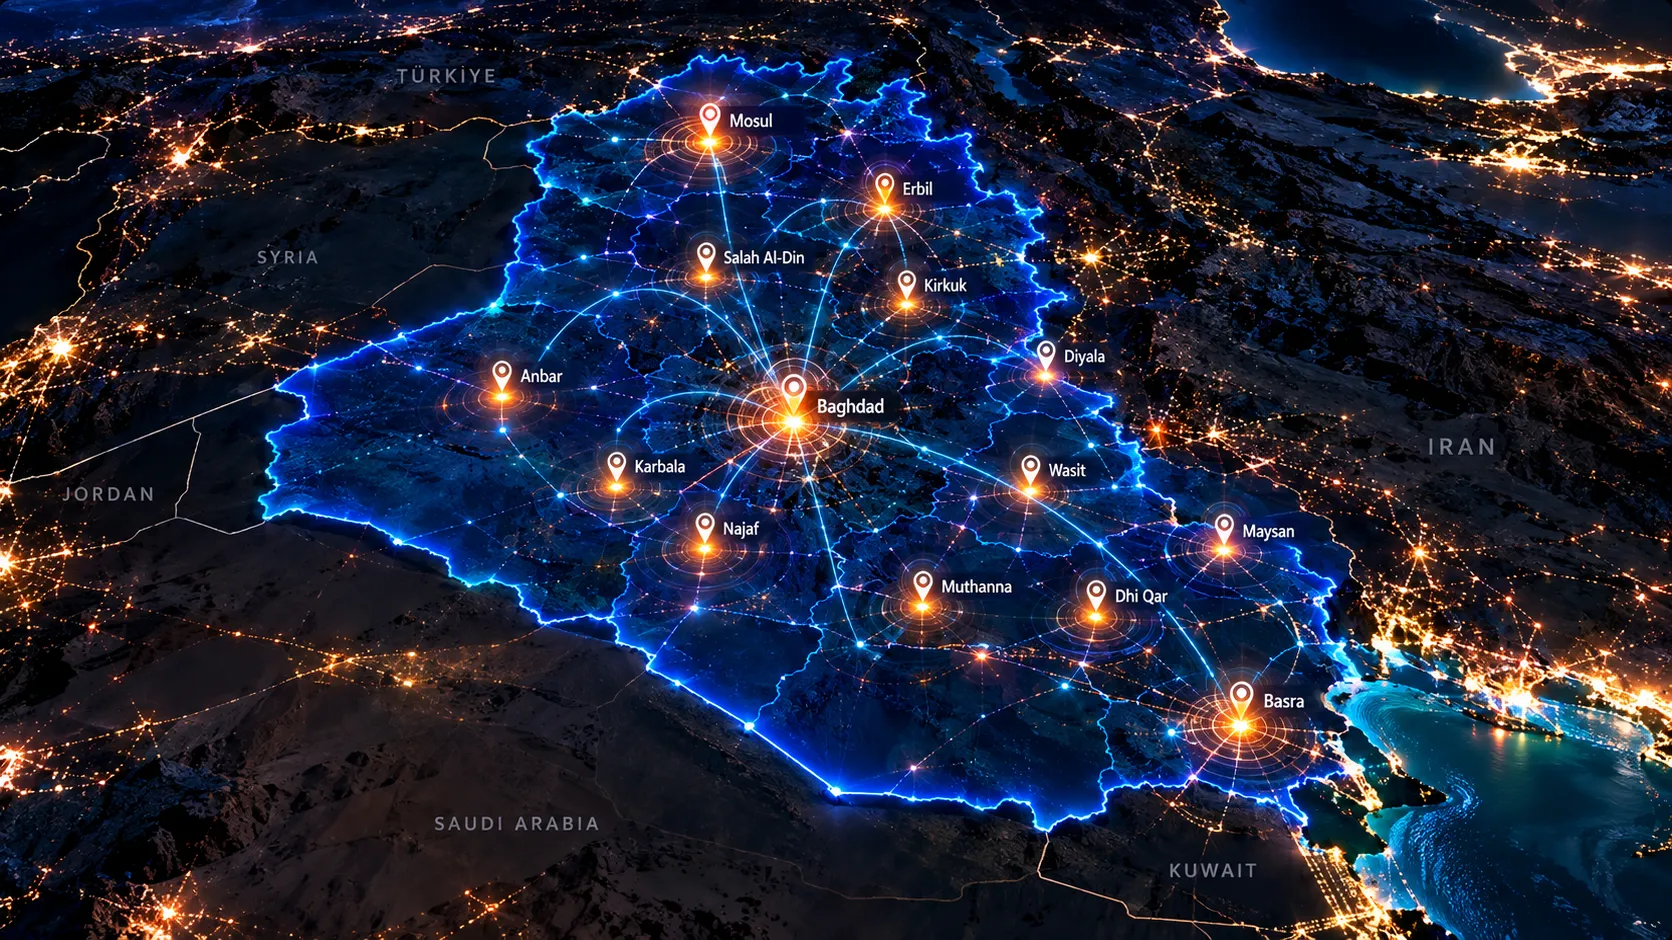
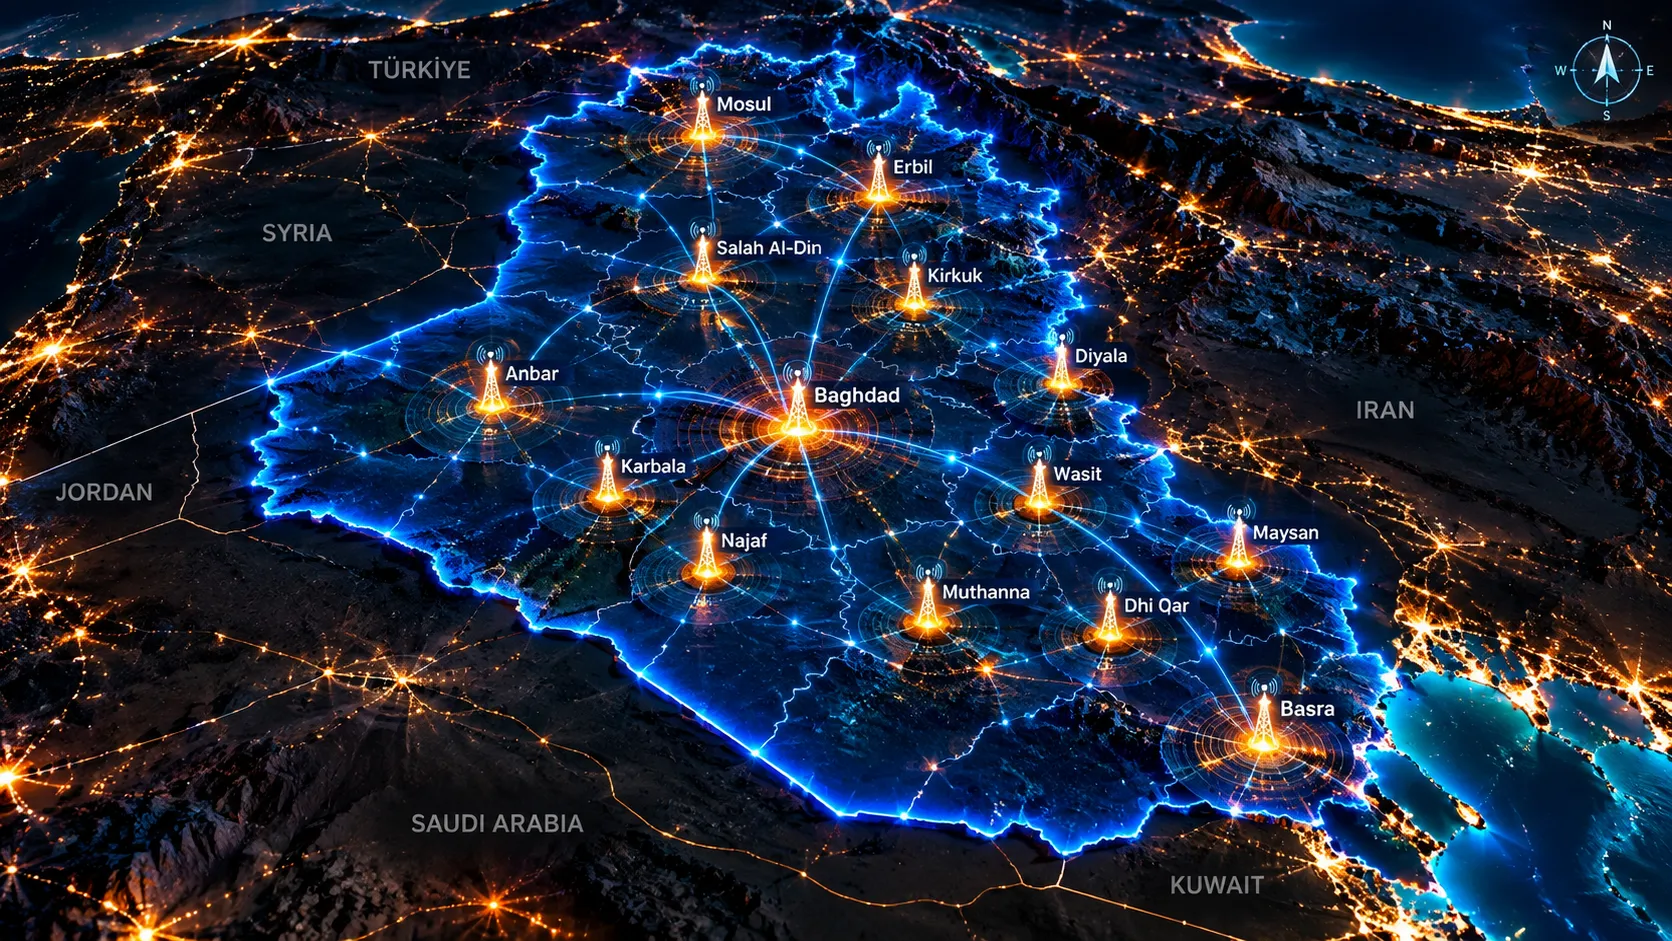
Sleep Analysis denser panels, new Iraq map background, refined Huawei flower, MS Asiacell Project label
Claude-Session: https://claude.ai/code/session_01HyJWzbNktJ7oNiTAd1pBso

diff --git a/app/_ui.py b/app/_ui.py
@@ -78,12 +78,14 @@ ICONS = {
                '<path d="M12 7.5V12l3 2"/></svg>',
 }
 
-# the Huawei flower: eight petals fanned from one point, the inner ones longest
-_PETAL = "M0 0C-5.4-7-6.6-15.5-3.4-22.5C-1.6-26.2 1.6-26.2 3.4-22.5C6.6-15.5 5.4-7 0 0Z"
+# the Huawei flower: eight separate petals fanned from one point, pointed at
+# the centre, the inner ones longest
+_PETAL = ("M0-1.6C-1.9-6-2.9-12.4-2.4-17.6C-2-21.9 2-21.9 2.4-17.6"
+          "C2.9-12.4 1.9-6 0-1.6Z")
 _FLOWER = "".join(
     f'<path d="{_PETAL}" transform="rotate({a}) scale({s})"/>'
-    for a, s in ((-80, .62), (-54, .8), (-29, .94), (-7, 1.0),
-                 (7, 1.0), (29, .94), (54, .8), (80, .62)))
+    for a, s in ((-79, .66), (-55, .82), (-32, .94), (-10, 1.0),
+                 (10, 1.0), (32, .94), (55, .82), (79, .66)))
 
 # the sidebar brand (st.logo takes an SVG string): HUAWEI, and its author
 LOGO_SVG = (
@@ -91,10 +93,10 @@ LOGO_SVG = (
     'viewBox="0 0 236 52"><defs><linearGradient id="hw" x1="0" y1="0" x2="0" y2="1">'
     '<stop offset="0" stop-color="#FF2A3A"/><stop offset="1" stop-color="#C7000B"/>'
     '</linearGradient></defs>'
-    f'<g fill="url(#hw)" transform="translate(24 36)">{_FLOWER}</g>'
-    '<text x="56" y="27" font-family="Segoe UI, Arial, sans-serif" font-size="23" '
+    f'<g fill="url(#hw)" transform="translate(26 43) scale(1.58)">{_FLOWER}</g>'
+    '<text x="60" y="27" font-family="Segoe UI, Arial, sans-serif" font-size="23" '
     'font-weight="700" letter-spacing="1.6" fill="#F8FAFC">HUAWEI</text>'
-    '<text x="57" y="45" font-family="Segoe UI, Arial, sans-serif" font-size="11.5" '
+    '<text x="61" y="45" font-family="Segoe UI, Arial, sans-serif" font-size="11.5" '
     'letter-spacing=".3" fill="#9FB4CC">&#169; Shamsaldin Ali</text></svg>')
 
 
@@ -342,7 +344,7 @@ def header(title: str = "RF Optimization",
            subtitle: str = "Network Performance Dashboard", *,
            search_key: str | None = None,
            placeholder: str = "Search site, sector, or location…",
-           project: str = "R5 · Asiacell") -> str | None:
+           project: str = "MS Asiacell Project") -> str | None:
     """The top bar. Returns the search text when the page has a search."""
     now = dt.datetime.now().strftime("%b %d, %Y  %H:%M")
     q = None
@@ -364,7 +366,7 @@ def header(title: str = "RF Optimization",
                     f'<span class="rf-chip">{icon_img("calendar", PALETTE["cyan"], 15)}'
                     f'{_esc(now)}</span>'
                     f'<span class="rf-chip">{icon_img("pin", PALETTE["cyan"], 15)}'
-                    f'Project: {_esc(project)}</span></div>')
+                    f'{_esc(project)}</span></div>')
     return q
 
 

diff --git a/tests/test_main_theme.py b/tests/test_main_theme.py
@@ -17,7 +17,7 @@ def test_the_assets_are_the_originals_never_resampled():
     bg = Image.open(APP / "static" / "main" / "rf_main_bg.png")
     tower = Image.open(APP / "static" / "main" / "rf_sidebar_tower.png")
     assert bg.format == tower.format == "PNG"
-    assert bg.size == (1672, 940)                  # the map at its own resolution
+    assert bg.size == (1672, 941)                  # the map at its own resolution
     assert tower.size == (860, 1225)               # a crop of the tower, not rescaled
     assert "aspect-ratio: 860 / 1225" in U._CSS
 
@@ -59,3 +59,17 @@ def test_the_startup_screen_is_left_as_it_was():
     import _startup as S
     assert S.BG_URL == "/app/static/startup/rf_startup_bg.png"
     assert "rf_main_bg" not in S.CSS + S.JS + S.markup()
+
+
+def test_the_project_chip_reads_ms_asiacell_project():
+    import inspect
+    src = inspect.getsource(U.header)
+    assert 'project: str = "MS Asiacell Project"' in src
+    assert "Project: {" not in src and "R5 · Asiacell" not in src
+
+
+def test_sleep_analysis_panels_are_denser_glass_on_that_page_only():
+    import _sleep
+    assert '[class*="st-key-sl_card"]' in _sleep.CSS
+    assert "rgba(6, 16, 31, .90) !important" in _sleep.CSS
+    assert "rgba(6, 16, 31, .90)" not in U._CSS          # the other pages keep theirs

diff --git a/app/_sleep.py b/app/_sleep.py
@@ -74,6 +74,15 @@ COLUMNS = [
 
 CSS = """
 <style>
+/* Sleep Analysis reads over the Iraq map: its cards and panels are a denser
+   glass than elsewhere, so the map stays behind them without crossing the text */
+[class*="st-key-sl_card"], .rf-kpi, .rf-card, [class*="st-key-rf_card"] {
+    background: rgba(6, 16, 31, .90) !important;
+    border-color: rgba(64, 160, 255, .24) !important;
+    -webkit-backdrop-filter: blur(6px); backdrop-filter: blur(6px);
+    border-radius: 12px;
+}
+[data-testid="stMain"] { text-shadow: 0 1px 2px rgba(2, 6, 14, .95), 0 0 7px rgba(2, 6, 14, .9); }
 .sl-bars { display: flex; flex-direction: column; gap: 6px; }
 .sl-bar { display: grid; grid-template-columns: 1fr 60px; align-items: center; gap: 10px;
     font-size: 11.5px; color: #CBD5E1; }
